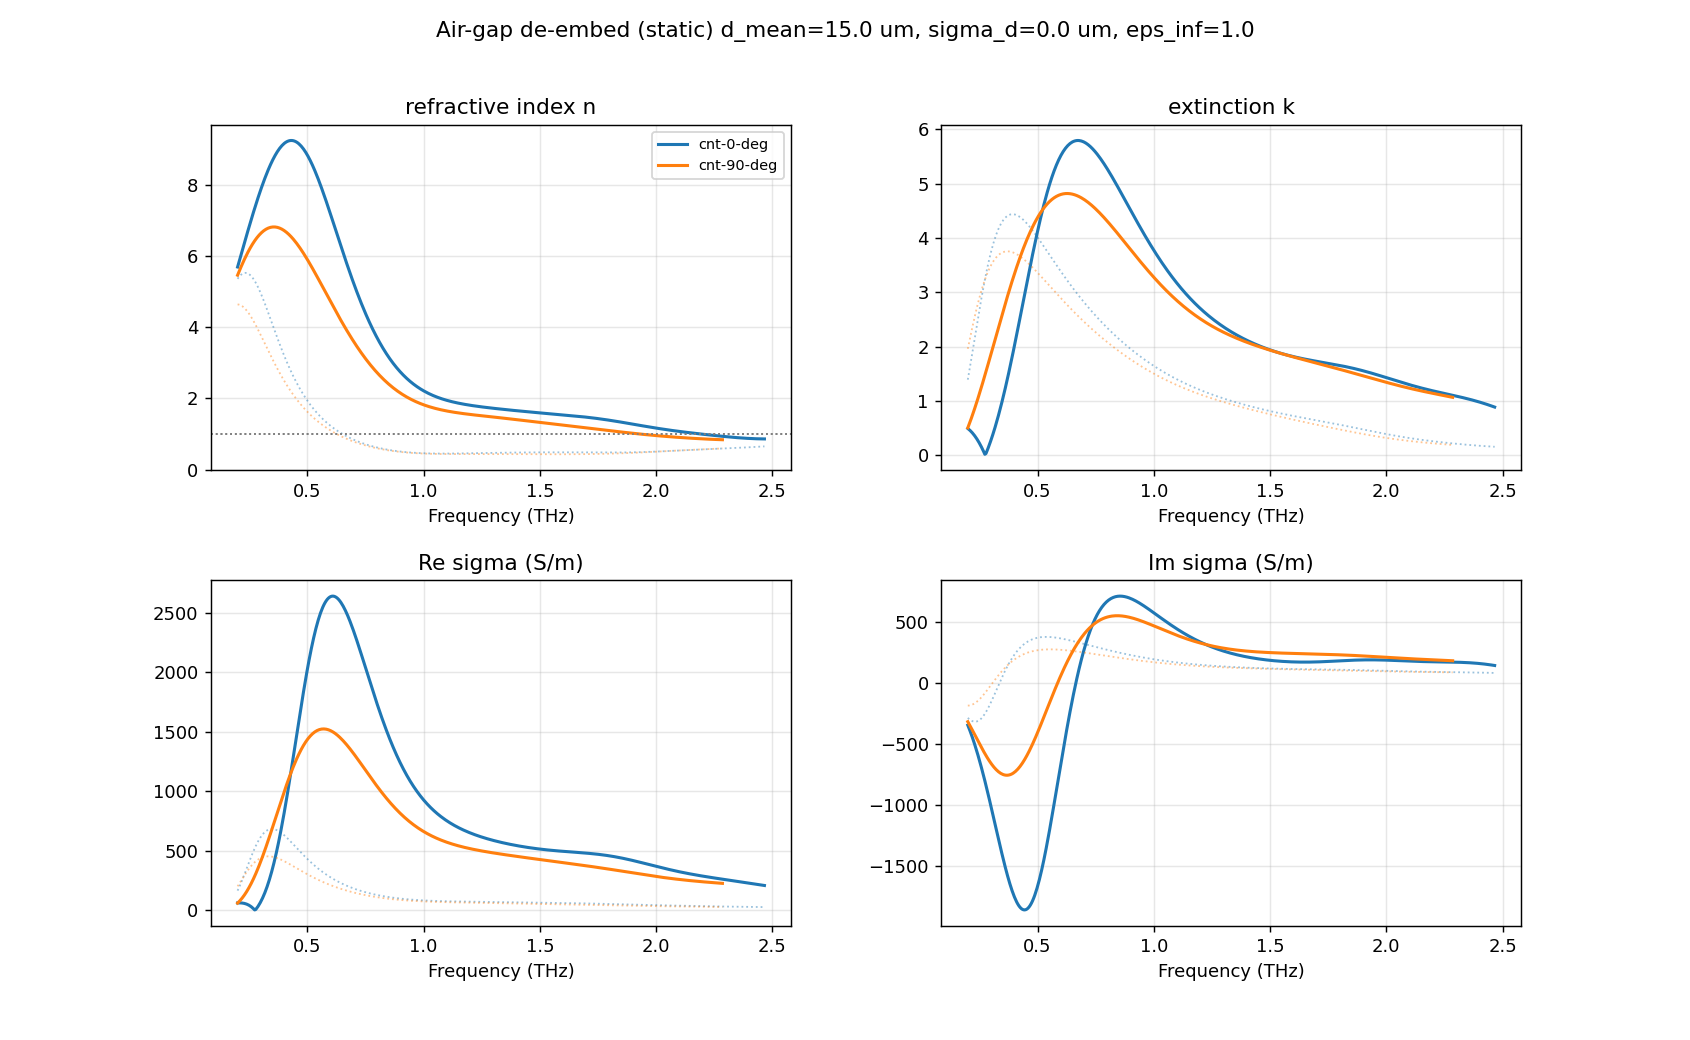
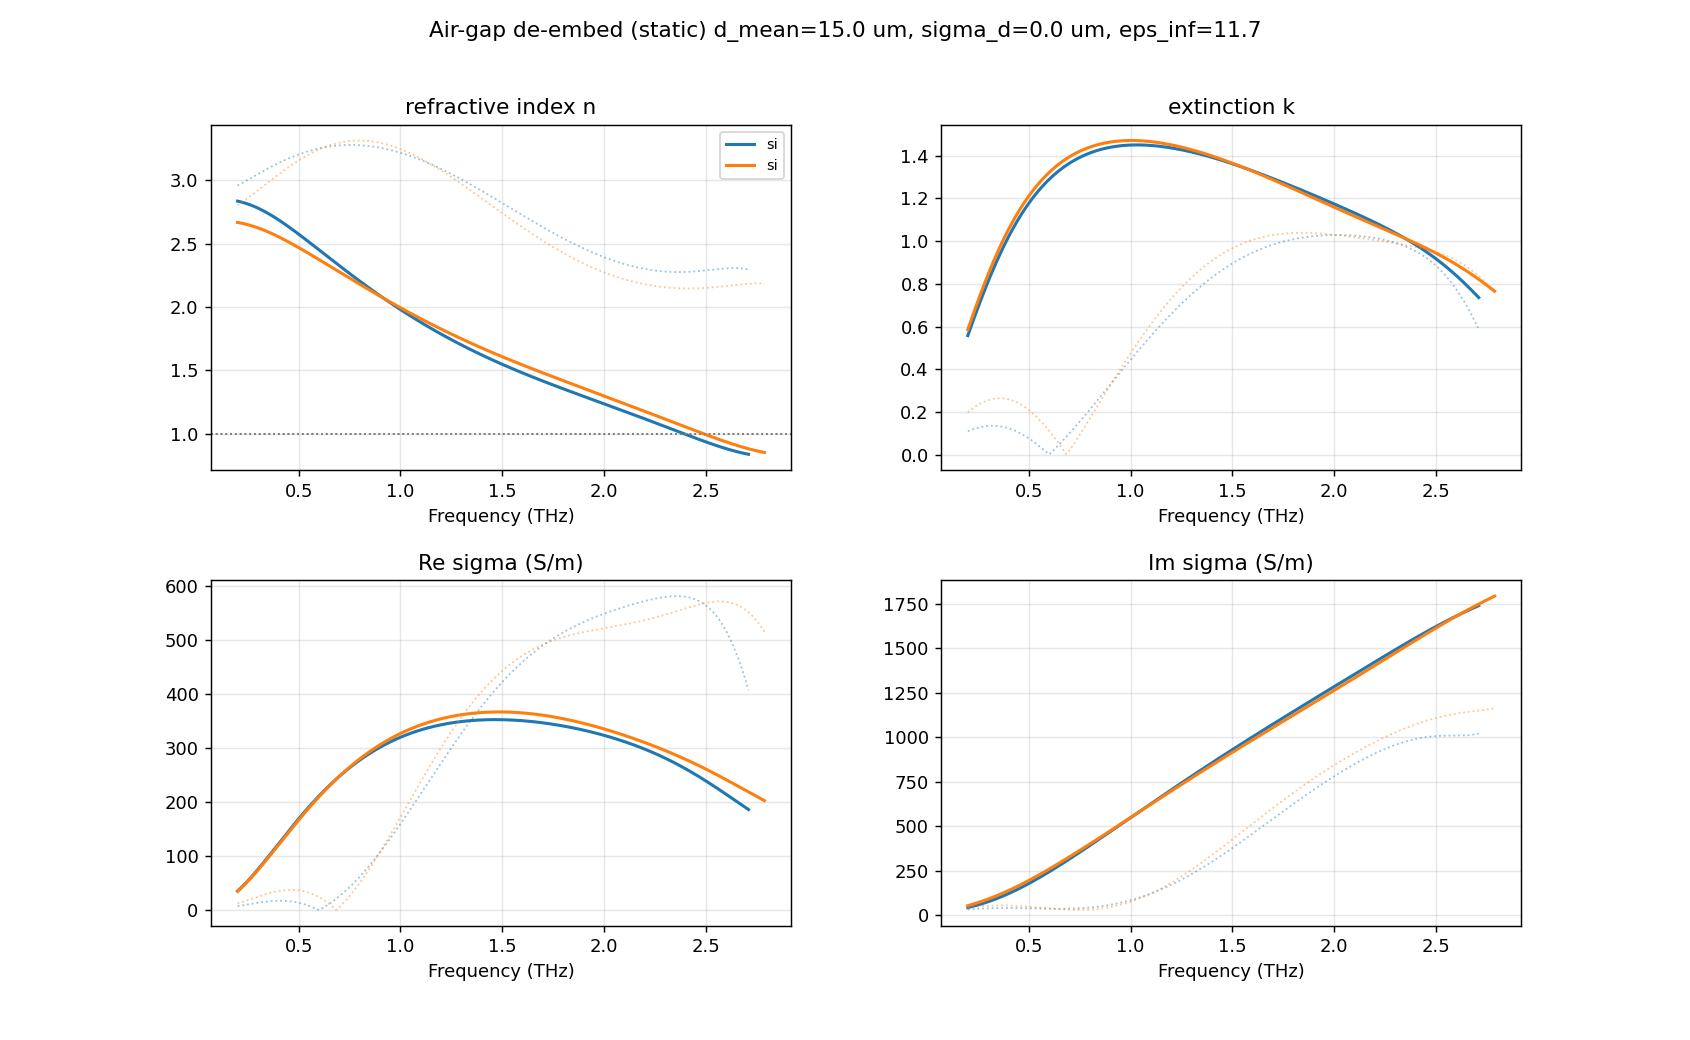
update:Si working, strange features in CNT

diff --git a/dataset_core/adapters/thz_adapter.py b/dataset_core/adapters/thz_adapter.py
@@ -39,7 +39,7 @@ SUBSAMPLE_TIMING_CORRECTION = True
 
 def normalise(dataset: DataSet, config: dict | None = None, show_graph: bool = False) -> DataSet:
     """Normalise each trace in the dataset by its max absolute amplitude."""
-    config = config or {}
+    config = config or getattr(dataset, 'config', None) or {}
     bounds = config.get('bounds', None)
     show_graph = config.get('show_graph', show_graph) # default to kwarg if not in config
 
@@ -586,7 +586,7 @@ def window_reflection_pulses(
     ``isolate_reflection_regions`` first so that the peak search only sees the
     target pulse.
     """
-    config = config or {}
+    config = config or getattr(dataset, 'config', None) or {}
     window_config = config.get('window', {'type': 'hann', 'alpha': 1.0})
     if center_mode not in ('crop', 'pad'):
         raise ValueError("center_mode must be 'crop' or 'pad'.")
@@ -720,7 +720,7 @@ def isolate_and_window(
     open: (1) the windowed pulses on the shared time axis, and (2) the pulses with
     their window functions on a sample-index axis — each as first/second subplots.
     """
-    config = config or {}
+    config = config or getattr(dataset, 'config', None) or {}
     window_config = config.get('window', {'type': 'hann', 'alpha': 1.0})
     if center_mode not in ('crop', 'pad'):
         raise ValueError("center_mode must be 'crop' or 'pad'.")
@@ -963,7 +963,7 @@ def window_pulses_fixed_width(
     trace edge for the full half-width, the overlapping bins still use the
     identical window weights and a clip warning is printed (shrink ``half_width_ps``).
     """
-    config = config or {}
+    config = config or getattr(dataset, 'config', None) or {}
     window_config = config.get('window', {'type': 'hann', 'alpha': 1.0})
     window_type = window_config.get('type', 'hann')
     alpha = float(window_config.get('alpha', 1.0))
@@ -1242,7 +1242,7 @@ def _plot_with_snr_mask(
 
 def _subtract_baseline_reflection(dataset: DataSet, config: dict | None = None) -> DataSet:
     """Specific pipeline step to subtract baseline from both reflections in a THzDataReflection."""
-    config = config or {}
+    config = config or getattr(dataset, 'config', None) or {}
     n_points = int((config.get('baseline', {}) or {}).get('n_points', 10))
 
     show_graph = bool(config.get('show_graph', False))
@@ -1861,7 +1861,7 @@ def center_pulse(
     ``processing_dict['pre_centering']``.  Call after ``centering_manual``
     and before ``window_time``.
     """
-    config = config or {}
+    config = config or getattr(dataset, 'config', None) or {}
     centering_cfg = config.get('centering', {})
     peak_mode = centering_cfg.get('peak_mode', 'auto')
     taper_ps = centering_cfg.get('taper_ps', 0.5)
@@ -1921,7 +1921,7 @@ def window_time(
         Which data segment to window.  Call once per segment for explicit,
         inspectable processing.
     """
-    config = config or {}
+    config = config or getattr(dataset, 'config', None) or {}
 
     holders = [
         (fn, _resolve_segment(obj, segment))
@@ -2428,7 +2428,7 @@ def zero_pad(
         Which data segment to pad.  Call once per segment.  Using ``n_samples``
         (absolute) for both segments ensures they share the same FFT frequency grid.
     """
-    config = config or {}
+    config = config or getattr(dataset, 'config', None) or {}
     pad_cfg = config.get('pad', {})
 
     # Part 1: shared absolute-time axis (group-delay-preserving). Idempotent if
@@ -2543,7 +2543,7 @@ def fft_spectrum(
         zero-padded to different lengths (e.g. when ``extend_factor`` rather
         than ``n_samples`` was used in ``zero_pad``).
     """
-    config = config or {}
+    config = config or getattr(dataset, 'config', None) or {}
 
     for filename, data_obj in dataset.data.items():
         holder = _resolve_segment(data_obj, segment)
@@ -2667,7 +2667,7 @@ def transfer_function(dataset: DataSet, config: dict | None = None, ref_type: st
     """
     import os
 
-    config = config or {}
+    config = config or getattr(dataset, 'config', None) or {}
     transfer_cfg = config.get('transfer', {})
     apply_snr_mask = transfer_cfg.get('apply_snr_mask', True)
     self_reference = transfer_cfg.get('self_reference', False)
@@ -2844,7 +2844,7 @@ def remove_phase_offset(
     show_graph : bool
         Overlay the unwrapped phase before/after per sample.
     """
-    config = config or {}
+    config = config or getattr(dataset, 'config', None) or {}
     phase_cfg = config.get('phase_offset', {})
     band_thz = phase_cfg.get('band_thz', (0.3, 2.0))
     use_snr_mask = phase_cfg.get('use_snr_mask', True)
@@ -2925,7 +2925,7 @@ def trusted_band_mask(dataset: DataSet, config: dict | None = None) -> DataSet:
     the fact. It overwrites the existing 'transfer_mask' and refreshes the
     per-spectrum 'snr_mask' arrays on both sample and reference.
     """
-    config = config or {}
+    config = config or getattr(dataset, 'config', None) or {}
 
     for filename, data_obj in dataset.data.items():
         if dataset.data.is_reference(filename):
@@ -2954,7 +2954,7 @@ def trusted_band_mask(dataset: DataSet, config: dict | None = None) -> DataSet:
 
 def invert_nk(dataset: DataSet, thickness_m: float, config: dict | None = None) -> DataSet:
     """Extract refractive index n and extinction coefficient k for each sample."""
-    config = config or {}
+    config = config or getattr(dataset, 'config', None) or {}
 
     for filename, data_obj in dataset.data.items():
         if dataset.data.is_reference(filename):
@@ -3056,7 +3056,7 @@ def invert_nk_reflection(
         Window refractive index for the 'window' geometry (scalar, or a
         per-frequency n_SiO2(f) array). Ignored for 'gold'.
     """
-    config = config or {}
+    config = config or getattr(dataset, 'config', None) or {}
     theta_external_rad = np.deg2rad(theta_deg)
 
     n_incident, theta_internal_rad, r_reference_value = _resolve_reflection_geometry(
@@ -3258,7 +3258,7 @@ def invert_nk_grid(dataset: DataSet, config: dict | None = None) -> DataSet:
 
     For "substrate_sandwich", run "substrate_only" first so that substrate n,k are available.
     """
-    config = config or {}
+    config = config or getattr(dataset, 'config', None) or {}
     geometry = config.get("invert_grid", {}).get("geometry", "free_standing")
 
     if geometry == "free_standing":
@@ -3379,10 +3379,15 @@ def _grid_invert_substrate_sandwich(dataset, config):
         _store_nk_grid(data_obj, freq, n, k, metrics)
 
 
-def derive_eps_sigma(dataset: DataSet) -> DataSet:
-    """Derive complex permittivity and optical conductivity from n, k."""
-    # config = config or {}
-    config = dataset.config or {}
+def derive_eps_sigma(dataset: DataSet, config: dict | None = None) -> DataSet:
+    """Derive complex permittivity and optical conductivity from n, k.
+
+    Reads ``config['derive']['eps_background']`` (the high-frequency / background
+    permittivity subtracted to isolate the free-carrier conductivity). An explicit
+    ``config`` overrides; otherwise the dataset's own config is the single source
+    of truth.
+    """
+    config = config or getattr(dataset, 'config', None) or {}
 
     for filename, data_obj in dataset.data.items():
         if dataset.data.is_reference(filename):
@@ -3474,7 +3479,7 @@ def sweep_time_shift(
     ``n``, ``k``, ``sigma1``, ``sigma2`` (each shape ``(n_shifts, n_freq)``),
     plus ``theta_internal_rad`` and ``r_reference``.
     """
-    config = config or {}
+    config = config or getattr(dataset, 'config', None) or {}
     filename, data_obj = _select_sample(dataset, sample)
     proc = data_obj.processing_dict
     H = proc.get('transfer_H')

diff --git a/tests/test_config_single_source.py b/tests/test_config_single_source.py
@@ -1,0 +1,143 @@
+"""Regression tests: dataset.config is the single source of truth for pipeline stages.
+
+These pin the carry-through bug Samuel hit — a config value defined once on the DataSet
+(here eps_background) must reach the core layer even when the stage function is called with
+NO explicit config; and an explicit config must still override (explicit wins, else dataset).
+
+Run with:
+    .venv/Scripts/python.exe tests/test_config_single_source.py
+"""
+
+from __future__ import annotations
+
+import os
+import sys
+import traceback
+
+import numpy as np
+
+REPO_ROOT = os.path.dirname(os.path.dirname(os.path.abspath(__file__)))
+sys.path.insert(0, REPO_ROOT)
+
+from dataset_core.adapters import thz_adapter as thz
+
+
+class _FakeDataObj:
+    def __init__(self, n, k, freq):
+        self.processing_dict = {"n": n, "k": k, "fft_freq": freq}
+        self.data = None
+        self.filename = "sample.acc"
+
+
+class _FakeDataMap:
+    def __init__(self, items):
+        self._items = items
+
+    def items(self):
+        return list(self._items.items())
+
+    def is_reference(self, filename):
+        return False
+
+
+class _FakeDataset:
+    """Minimal stand-in for DataSet: just .config and .data (items + is_reference)."""
+
+    def __init__(self, data_obj, config):
+        self.data = _FakeDataMap({data_obj.filename: data_obj})
+        self.config = config
+
+
+def _make_dataset(eps_background_in_config):
+    freq = np.linspace(0.3e12, 2.5e12, 64)
+    n = 3.0 * np.ones_like(freq)
+    k = 1.0 * np.ones_like(freq)
+    data_obj = _FakeDataObj(n, k, freq)
+    config = {"derive": {"eps_background": eps_background_in_config}}
+    return _FakeDataset(data_obj, config), data_obj, freq, n, k
+
+
+def _expected_sigma(freq, n, k, eps_background):
+    omega = 2.0 * np.pi * freq
+    eps = (n + 1j * k) ** 2
+    return -1j * omega * 8.8541878128e-12 * (eps - eps_background)
+
+
+# ---------------------------------------------------------------------------
+# tests
+# ---------------------------------------------------------------------------
+
+def test_eps_background_flows_from_dataset_config():
+    """derive_eps_sigma(dataset) with NO explicit config must use dataset.config's value."""
+    dataset, data_obj, freq, n, k = _make_dataset(11.7)
+    thz.derive_eps_sigma(dataset)  # no config arg -> single source of truth
+    sigma = data_obj.processing_dict["sigma"]
+    assert np.allclose(sigma, _expected_sigma(freq, n, k, 11.7))
+    # and it must NOT be the vacuum default (proves the value actually carried)
+    assert not np.allclose(sigma, _expected_sigma(freq, n, k, 1.0))
+
+
+def test_explicit_config_overrides_dataset_config():
+    """An explicit config wins over dataset.config (explicit, else dataset, else default)."""
+    dataset, data_obj, freq, n, k = _make_dataset(11.7)
+    thz.derive_eps_sigma(dataset, config={"derive": {"eps_background": 1.0}})
+    sigma = data_obj.processing_dict["sigma"]
+    assert np.allclose(sigma, _expected_sigma(freq, n, k, 1.0))
+
+
+def test_missing_config_falls_back_to_vacuum_default():
+    """No 'derive' key anywhere -> core default eps_background = 1.0, no crash."""
+    freq = np.linspace(0.3e12, 2.5e12, 64)
+    n = 3.0 * np.ones_like(freq)
+    k = 1.0 * np.ones_like(freq)
+    data_obj = _FakeDataObj(n, k, freq)
+    dataset = _FakeDataset(data_obj, config={})  # empty config
+    thz.derive_eps_sigma(dataset)
+    sigma = data_obj.processing_dict["sigma"]
+    assert np.allclose(sigma, _expected_sigma(freq, n, k, 1.0))
+
+
+def test_dataset_without_config_attribute_does_not_crash():
+    """getattr fallback: a minimal mock with no .config must still work (-> default)."""
+    freq = np.linspace(0.3e12, 2.5e12, 64)
+    n = 3.0 * np.ones_like(freq)
+    k = 1.0 * np.ones_like(freq)
+    data_obj = _FakeDataObj(n, k, freq)
+
+    class _NoConfigDataset:
+        data = _FakeDataMap({"sample.acc": data_obj})
+
+    thz.derive_eps_sigma(_NoConfigDataset())
+    assert np.allclose(data_obj.processing_dict["sigma"], _expected_sigma(freq, n, k, 1.0))
+
+
+# ---------------------------------------------------------------------------
+# runner
+# ---------------------------------------------------------------------------
+
+_TESTS = [
+    test_eps_background_flows_from_dataset_config,
+    test_explicit_config_overrides_dataset_config,
+    test_missing_config_falls_back_to_vacuum_default,
+    test_dataset_without_config_attribute_does_not_crash,
+]
+
+
+def main() -> int:
+    passed = 0
+    failed = 0
+    for test in _TESTS:
+        try:
+            test()
+            passed += 1
+            print(f"PASS  {test.__name__}")
+        except Exception:
+            failed += 1
+            print(f"FAIL  {test.__name__}")
+            traceback.print_exc()
+    print(f"\n{passed} passed, {failed} failed ({len(_TESTS)} total)")
+    return 1 if failed else 0
+
+
+if __name__ == "__main__":
+    sys.exit(main())

diff --git a/run_me_low-level.py b/run_me_low-level.py
@@ -66,6 +66,8 @@ config: dict = {
         "n_fft": 2000,            # shared FFT length (zero-pad for display resolution)
     },
     "transfer": {
+        "self_reference": True,     # H = (Y2/Y1)_sample / (Y2/Y1)_ref (front-pulse referencing)
+        "apply_snr_mask": True,     # build the SNR-based trusted-band mask
         "min_ref_amp_rel": 1e-3,
         "regularization_eps": 1e-30,
         "unwrap_phase": True,
@@ -75,10 +77,10 @@ config: dict = {
         "tail_fraction": 0.25,
         "min_contiguous_bins": 3,
     },
-    "invert": {
-        "max_iterations": 30,
-        "convergence_tol": 1e-12,
-        "eps_background": 11.7# Si 
+    "derive": {
+        # Background permittivity subtracted to isolate free-carrier conductivity:
+        # sigma = -i*omega*eps0*(eps - eps_background). 1.0 = vacuum; 11.7 = silicon.
+        "eps_background": 1,
     },
 }
 
@@ -102,9 +104,9 @@ dataset.grouping.show_matches()
 # --- T0 calibration on the FRONT pulse (roi locks the cross-correlation onto it) ---
 first_region = config['regions'].get('first_reflection')
 correlation_roi = first_region if (first_region and None not in first_region) else None
-thz.align_to_reference(
-    dataset, timing_segment='first_reflection', roi=correlation_roi, show_graph=False,
-)
+# thz.align_to_reference(
+#     dataset, timing_segment='first_reflection', roi=correlation_roi, show_graph=True,
+# )
 
 thz.subtract_baseline(dataset)
 
@@ -116,9 +118,8 @@ thz.define_reflection_regions(dataset, config)
 thz.window_pulses_fixed_width(
     dataset,
     half_width_ps=config['window']['half_width_ps'],
-    config={'window': config['window']},
     show_graph=config['general']['show_graph'],
-)
+)  # window config read from dataset.config (single source of truth)
 
 # dataset.plot_current()
 
@@ -146,11 +147,9 @@ if config['general']['show_graph']:
     thz.plot_fft(dataset, normalise=False, scale='')
 
 # --- self-referenced transfer function: H = (Y2/Y1)_sample / (Y2/Y1)_ref.
-#     self_reference=True forms the front/back ratio within each acquisition first,
-#     so the sample<->reference timing cancels structurally. ---
-thz.transfer_function(
-    dataset, config={'transfer': {'self_reference': True}}, ref_type='reference',
-)
+#     transfer + mask settings (incl. self_reference) come from dataset.config so the
+#     SNR mask threshold etc. actually carry through (single source of truth). ---
+thz.transfer_function(dataset, ref_type='reference')
 
 # --- reflection-mode inversion: H -> n, k for the back-face (SiO2->sample)
 #     interface. geometry='window' uses the SiO2 window as the incidence medium. ---
@@ -165,7 +164,7 @@ thz.invert_nk_reflection(
 # --- complex permittivity + optical conductivity from n, k ---
 thz.derive_eps_sigma(dataset)
 
-# dataset.save_database()
+dataset.save_database()
 
 # --- inspect / launch the interactive result viewer ---
 thz.result_viewer(dataset)

diff --git a/dataset_core/dataset.py b/dataset_core/dataset.py
@@ -655,7 +655,6 @@ class DataSet:
 
             figure_obj = self._generate_figure_object('main')
             data_object.plot_current(figure_obj=figure_obj, **kwargs)
-            breakpoint()
         
         plt.show()
 
